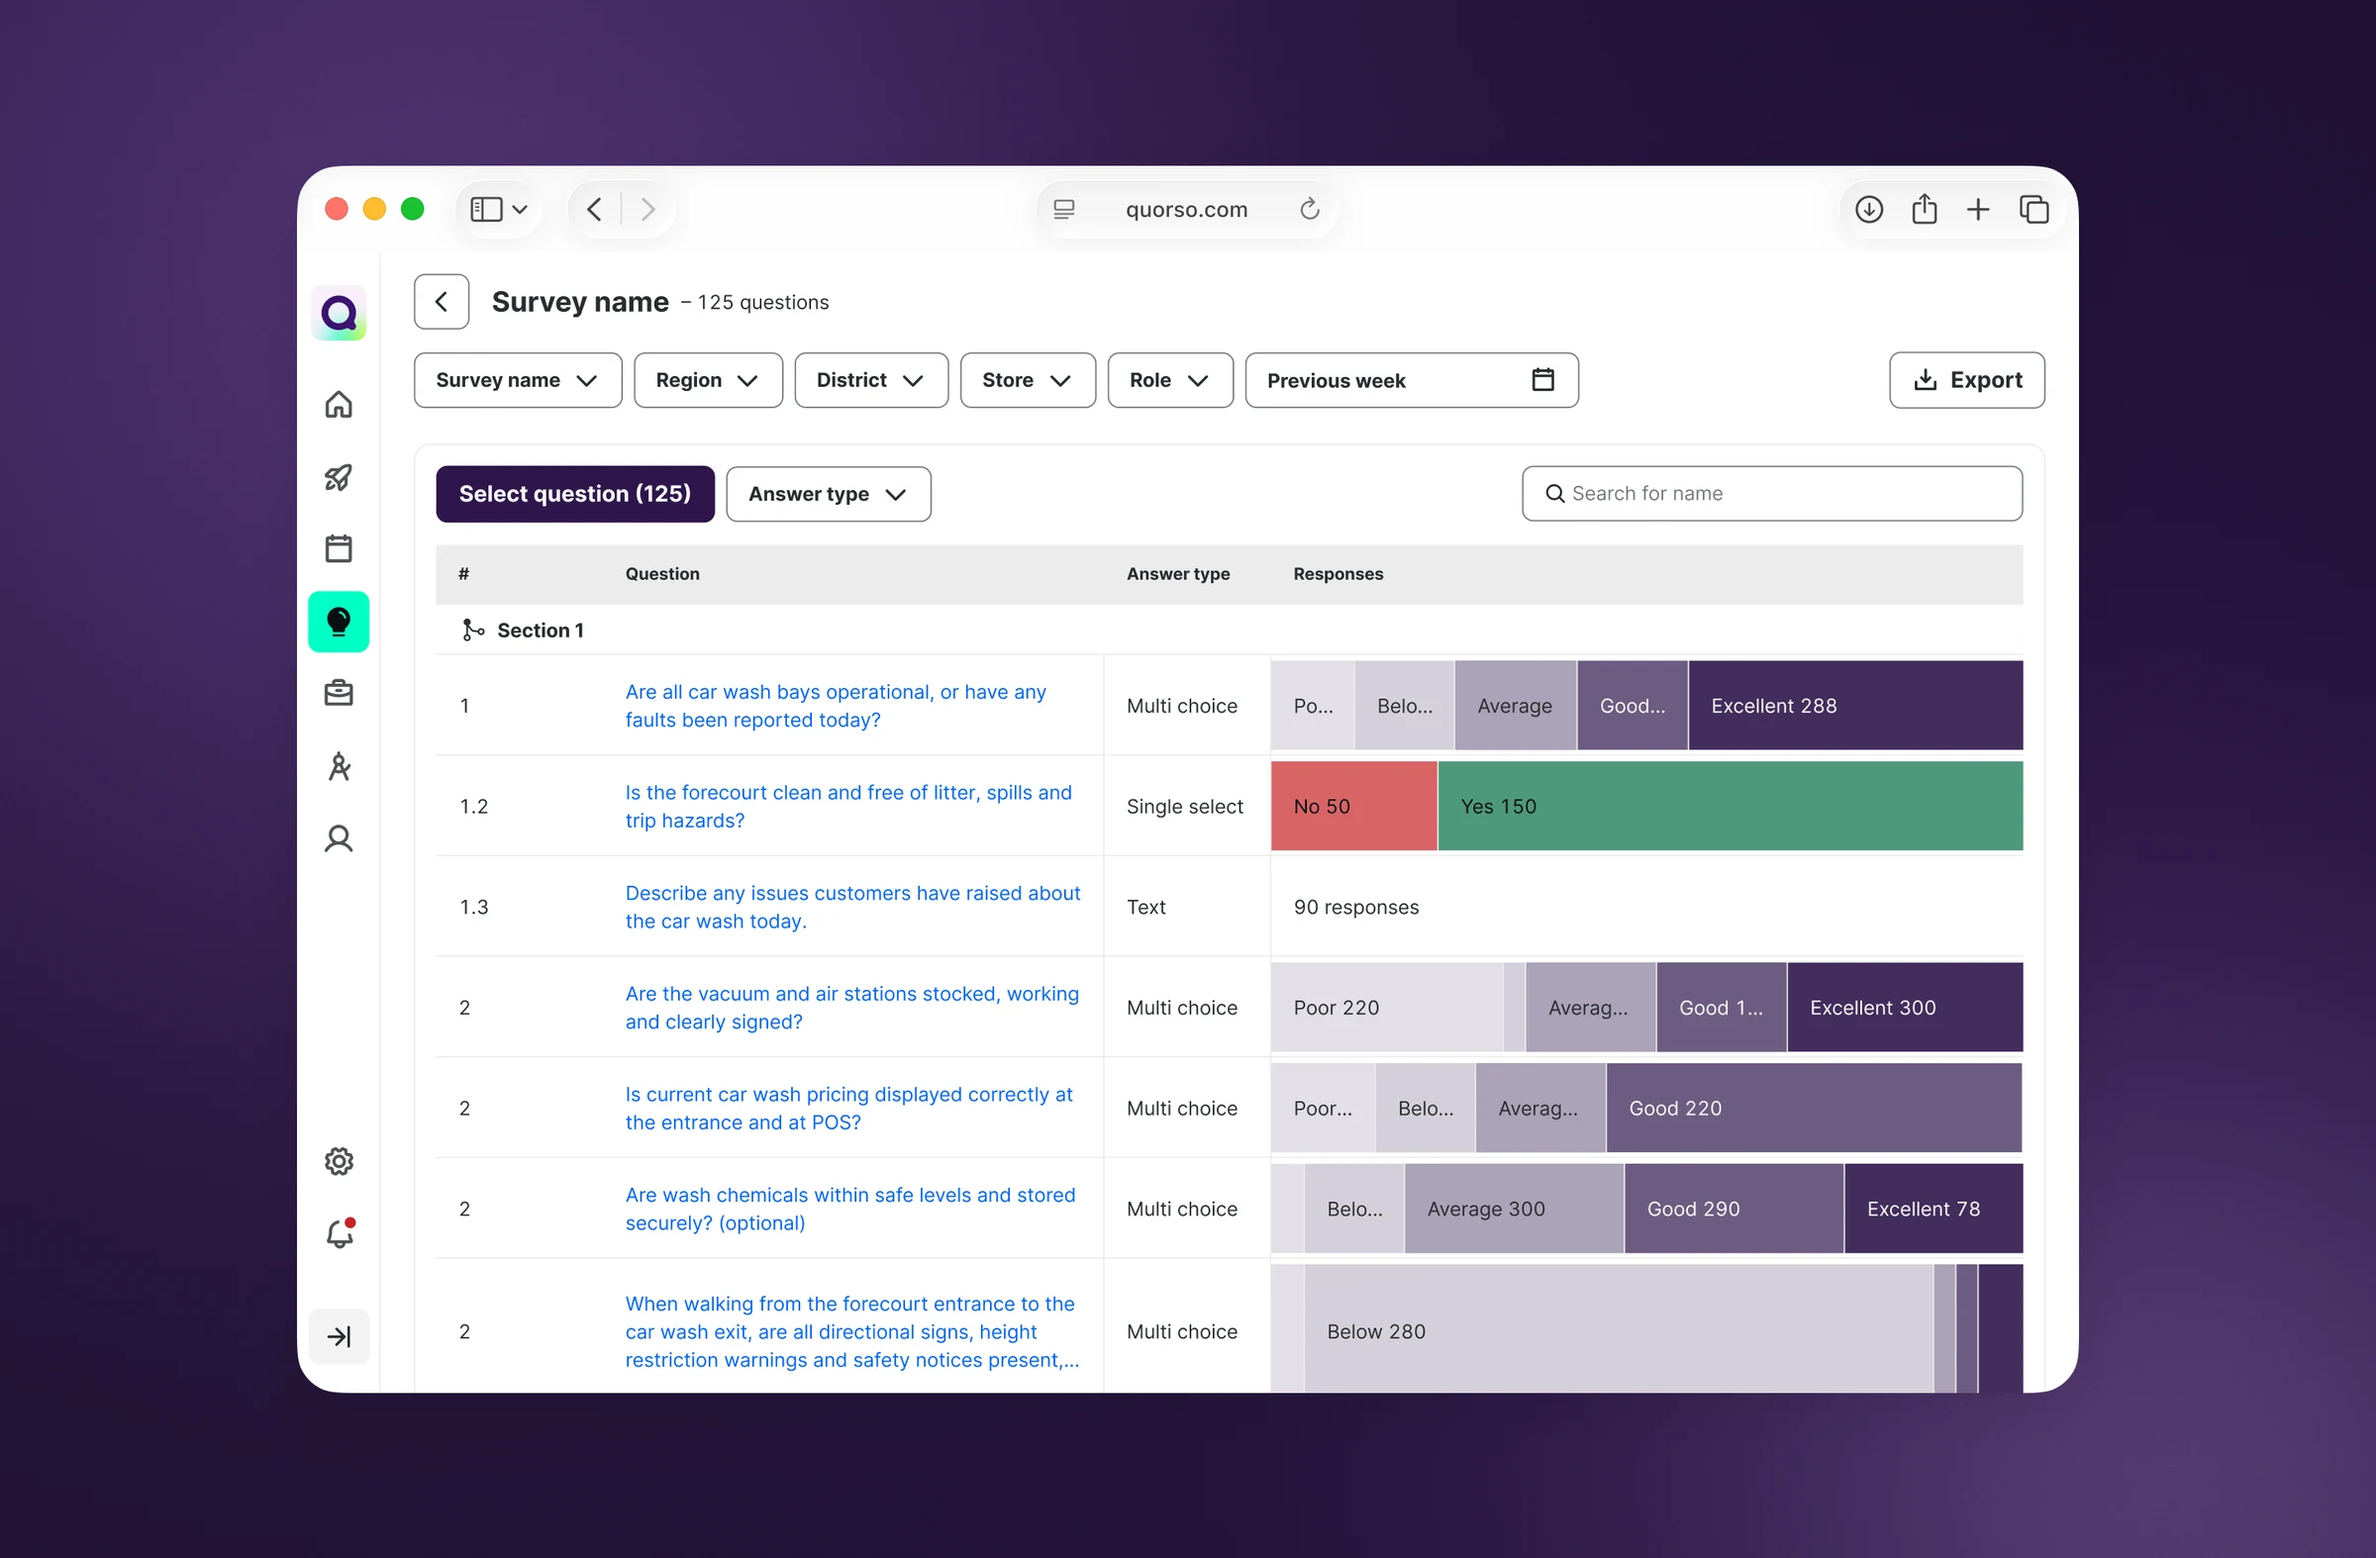
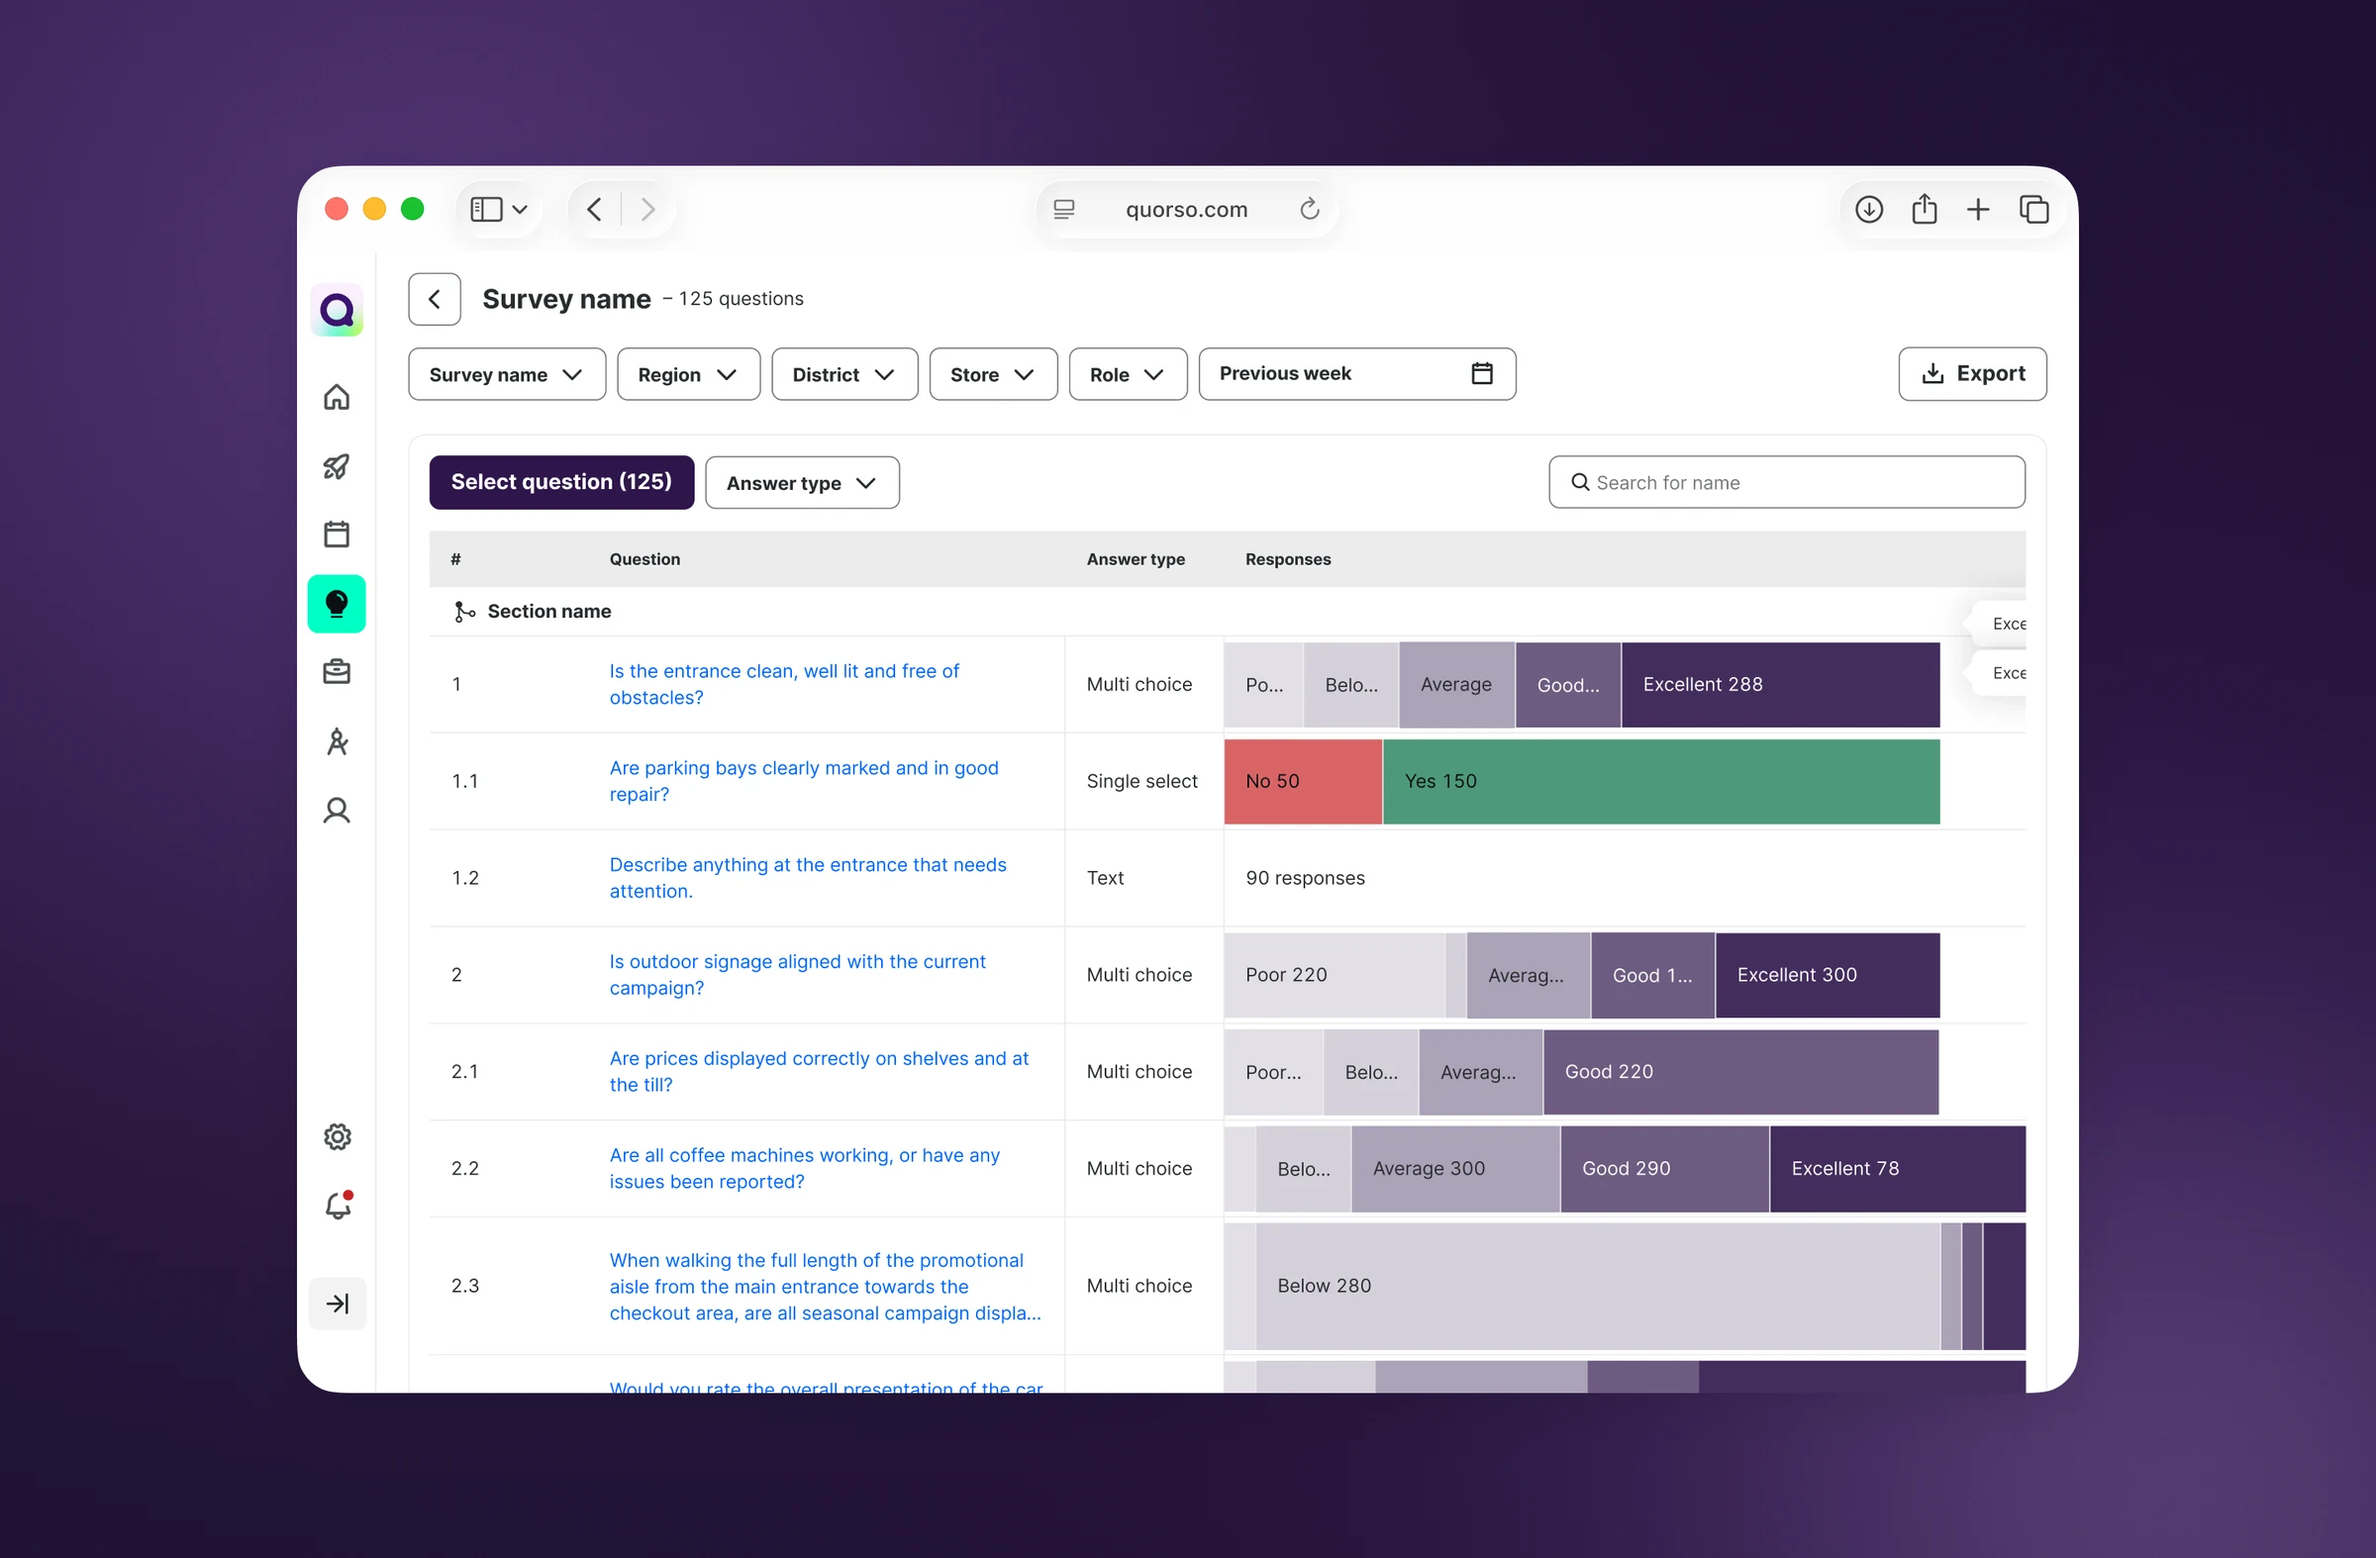
Quorso insights: new cover, What's next instead of Impact
Claude-Session: https://claude.ai/code/session_01JdBbVxvSpMtVivTK7th3ph

diff --git a/lib/quorso-insights.ts b/lib/quorso-insights.ts
@@ -255,9 +255,14 @@ export const QUORSO_INSIGHTS: Case = {
       ],
     },
     {
-      id: 'impact',
-      title: 'Impact',
-      blocks: [{ type: 'draft', text: 'Draft: what changed for district managers and for the team that used to run the exports.' }],
+      id: 'next',
+      title: 'What’s next',
+      blocks: [
+        {
+          type: 'p',
+          text: 'The feature is in development now. Once it ships, I will be watching how many survey data requests still reach central ops, how often district managers open insights instead of asking for a report, and which export people choose, summarized or raw.',
+        },
+      ],
     },
   ],
 }
